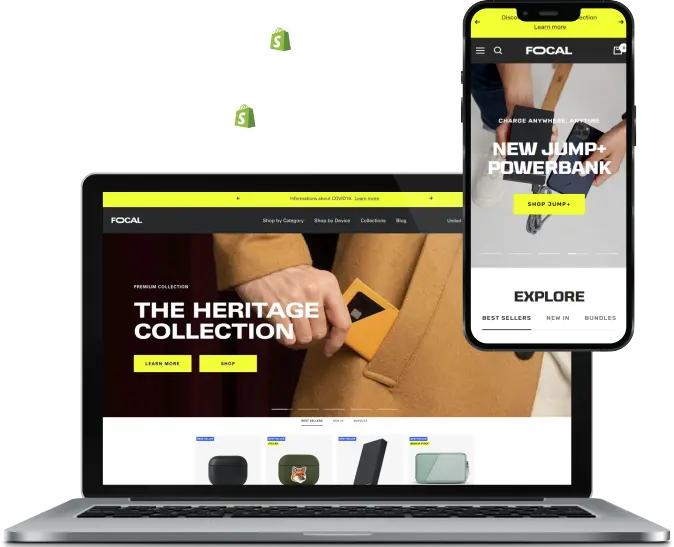
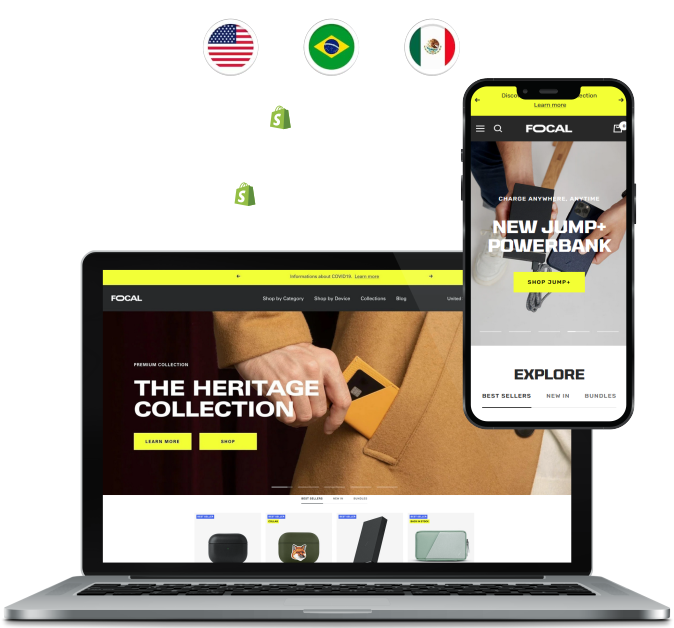
atualização de bandeiras

diff --git a/index.html b/index.html
@@ -203,7 +203,7 @@
                             <h1 class="card-title pricing-card-title">R$37,90</h1>
 
                             <ul class="list-unstyled mt-3 mb-4 ">
-                                <li><i class="bi bi-check"></i>5 temas Original Licenciado</li>
+                                <li><i class="bi bi-check"></i>10 temas Original Licenciado</li>
                                 <li><i class="bi bi-check"></i>100 Fornecedores nacionais</li>
                                 <li><i class="bi bi-check"></i>100 Fornecedores Internacionais</li>
                                 <li><i class="bi bi-check"></i>50 Banners Editáveis no Canva</li>
@@ -241,7 +241,7 @@
                             <p><s>de R$97,90</s></p>
                             <h1 class="card-title pricing-card-title">R$57,90</h1>
                             <ul class="list-unstyled mt-3 mb-4">
-                                <li><i class="bi bi-check text-success"></i>15 temas Original Licenciado</li>
+                                <li><i class="bi bi-check text-success"></i>55 temas Original Licenciado</li>
                                 <li><i class="bi bi-check text-success"></i>200 Fornecedores nacionais</li>
                                 <li><i class="bi bi-check text-success"></i>200 Fornecedores Internacionais</li>
                                 <li><i class="bi bi-check text-success"></i>500 Banners Editáveis no Canva</li>
